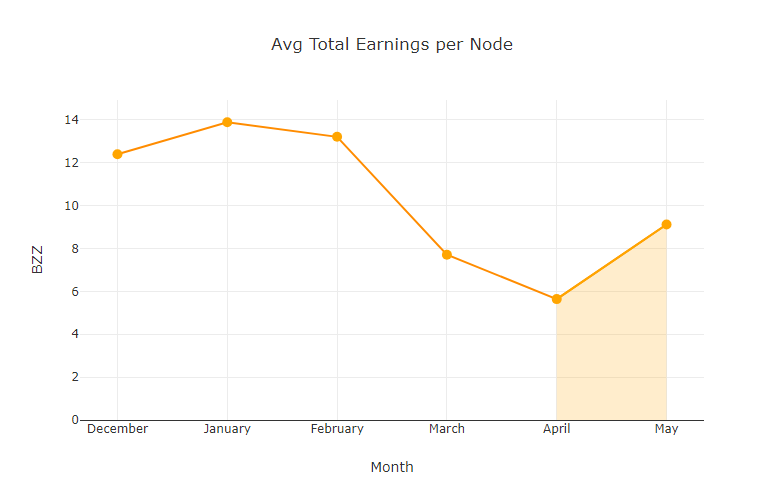
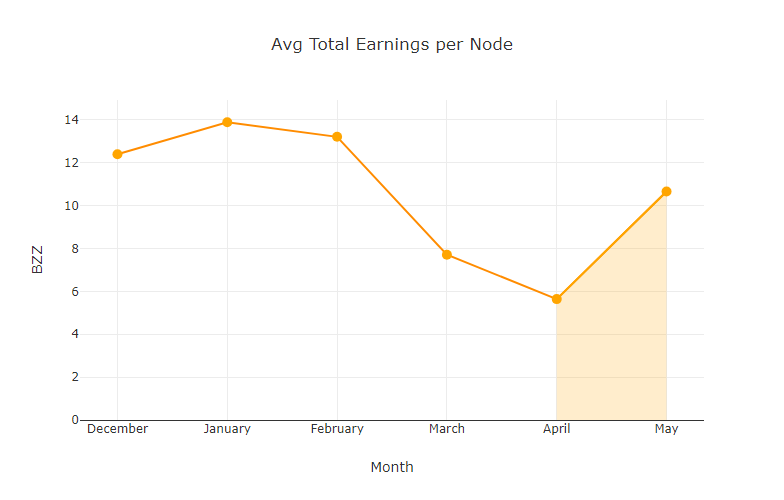
Add may state of network post

Changed region(s): [[0.7347, 0.36, 0.8571, 0.57], [0.7041, 0.57, 0.7347, 0.6]]

diff --git a/content/foundation/posts/swarm-state-of-the-network-may-2024.md b/content/foundation/posts/swarm-state-of-the-network-may-2024.md
@@ -1,0 +1,149 @@
++++
+banner = "/uploads/danis-blog.jpeg"
+images = [ "/uploads/danis-blog.jpeg" ]
+categories = [ "Development updates" ]
+date = 2024-06-07T00:00:00.000Z
+description = "The May state of the network report continues to depict the evolving dynamics within the Swarm network, reflecting adjustments and shifts in various metrics."
+references_and_footnotes = [ ]
+title = "State of the Network: May"
+_template = "post"
+slug="state-of-the-network-may-2024"
++++
+
+
+The May state of the network report continues to depict the evolving dynamics within the Swarm network, reflecting adjustments and shifts in various metrics. This analysis highlights significant trends and changes observed throughout the month, providing insights into the performance and activity within the network.
+
+## Network Total Monthly Rewards
+
+This metric shows the total rewards paid out across the entire network for each month.
+
+| Month     | Total Network Rewards (xBZZ) |
+|-----------|------------------------------|
+| December  | 159,865                      |
+| January   | 157,596                      |
+| February  | 152,974                      |
+| March     | 104,657                      |
+| April     | 76,024                       |
+| May       | 109,209                      |
+
+![chart-Total-Network-Monthly-Rewards](/uploads/chart-Total-Network-Monthly-Rewards-May-2024.png)
+
+In May, the total network rewards saw a notable increase to 109,209 xBZZ, reversing the declining trend from the previous months.
+
+## Monthly Median Win Values
+This metric is the median win amount for each win event.
+
+| Month     | Median Win Values (xBZZ) |
+|-----------|---------------------------|
+| December  | 48.06                     |
+| January   | 47.43                     |
+| February  | 49.15                     |
+| March     | 27.43                     |
+| April     | 22.27                     |
+| May       | 32.65                     |
+
+![chart-Monthly-Median-Win-Values](/uploads/chart-Monthly-Median-Win-Values-May-2024.png)
+
+
+The median win value increased to 32.65 xBZZ in May, indicating an increase from the sharp decline observed in April.
+
+## Monthly Average Win Values
+This metric is the average win amount for each win event.
+
+| Month     | Average Win Values (xBZZ)  |
+|-----------|----------------------------|
+| December  | 57.75                      |
+| January   | 51.20                      |
+| February  | 54.42                      |
+| March     | 34.96                      |
+| April     | 25.43                      |
+| May       | 36.56                      |
+
+![chart-Monthly-Average-Win-Values](/uploads/chart-Monthly-Average-Win-Values-May-2024.png)
+
+In May, the average win value increased to 36.56 xBZZ, increasing from the lower values in the previous two months.
+
+## Active Staking Node Monthly Average Earnings
+
+This metric shows the average monthly earnings for an active staking node (with an "active node" defined as a node which has submitted a commit transaction at least once in the month).
+
+| Month     | Avg Total Earnings per Node (xBZZ) |
+|-----------|------------------------------------|
+| December  | 12.40                              |
+| January   | 13.89                              |
+| February  | 13.21                              |
+| March     | 7.71                               |
+| April     | 5.64                               |
+| May       | 10.66                              |
+
+![chart-Avg-Total-Earnings-per-Node](/uploads/chart-Avg-Total-Earnings-per-Node-May-2024.png)
+
+The average earnings per active staking node rose to 10.66 xBZZ in May, indicating an increase in average earnings from March and April.
+
+
+## Total Active Staking Nodes by Month
+
+This metric shows the total active staking nodes by month. 
+
+| Month     | Total Active Staking Nodes |
+|-----------|----------------------------|
+| December  | 12,891                     |
+| January   | 11,350                     |
+| February  | 11,576                     |
+| March     | 13,571                     |
+| April     | 13,486                     |
+| May       | 10,245                    |
+
+
+![chart-Total-Active-Staking-Nodes](/uploads/chart-Total-Active-Staking-Nodes-May-2024.png)
+
+In May, the total number of active staking nodes (nodes with at least one commit in the month) decreased to 10,198.
+
+
+## Total Reachable Full Nodes Regardless of Active Status
+
+In this new reporting category, we record the total number of unique reachable full nodes, regardless of whether or not they have issued a commit transaction within the month. In May there were 16,000 unique full nodes which were reachable at least once throughout the month. 
+
+## Total Winning Nodes by Month
+
+This metric shows the total number of unique active staking nodes which have won at least once within the month.
+
+| Month     | Total Winning Nodes  |
+|-----------|----------------------|
+| December  | 2,308                |
+| January   | 2,474                |
+| February  | 2,814                |
+| March     | 2,413                |
+| April     | 2,486                |
+| May       | 2,554                |
+
+
+![chart-Number-of-Winning-Staking-Nodes-by-Month](/uploads/chart-Number-of-Winning-Staking-Nodes-by-Month-May-2024.png)
+
+
+The number of winning nodes increased to 2,554 in May, marking a steady rise from the previous month. 
+
+
+## Total Active Staking Nodes by Country
+
+This metric shows the total number of active staking nodes across the top four countries and all other countries aggregated into the "Other" category, as well as the remaining nodes in the "Unknown" category.
+ 
+
+|               | China  | Germany | Finland | Unknown | United States | Other |
+|---------------|--------|---------|---------|---------|---------------|-------|
+| December      | 8,333  | 2,001   | 1,919   | 265     | 312           | 61    | 
+| January       | 6,696  | 1,937   | 1,769   | 701     | 181           | 66    | 
+| February      | 6,787  | 1,958   | 1,952   | 688     | 116           | 75    | 
+| March         | 7,785  | 1,953   | 2,232   | 1,408   | 91            | 102   | 
+| April         | 7,249  | 1,912   | 2,291   | 1,851   | 92            | 91    | 
+| May           | 6,014  | 1,671   | 2,075   | 339   | 83            | 63    |
+
+![Total Staking Nodes by Country.png](/uploads/Total-Active-Staking-Nodes-by-Country-May-2024.png)
+
+In May, the number of active staking nodes declined across all categories. 
+
+*In previous months there was an unintentional overcount of active nodes, primarily in the number of Unknown nodes. Its correction in this month is what accounts for the large decline in Unknown nodes*.
+
+## Conclusion
+
+The data from May highlights significant shifts and adaptations within the Swarm network. While the total number of active staking nodes has decreased, this reduction along with an increase in total network monthly rewards has led to an increase in average earnings per node. The uptick in total network rewards and average win values suggests a positive trend, indicating robust activity and engagement. These changes underscore the dynamic nature of the Swarm network, showcasing its ability to adapt and sustain profitability for active nodes despite fluctuations in participation.
